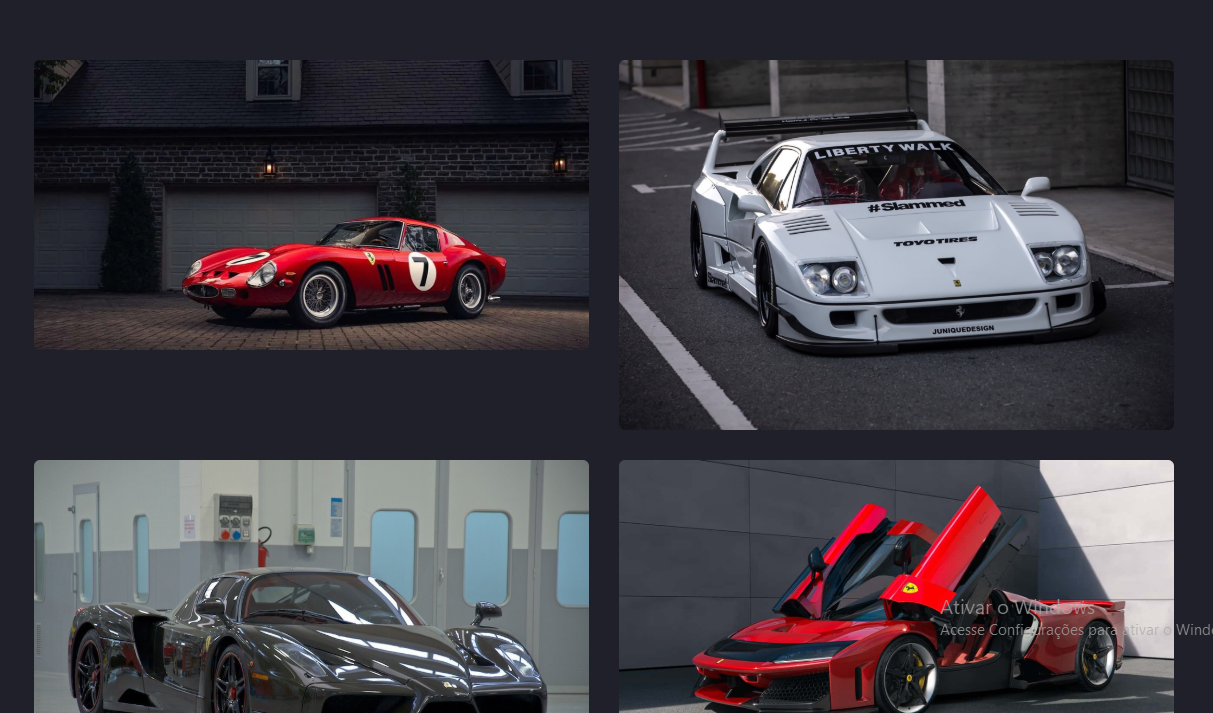
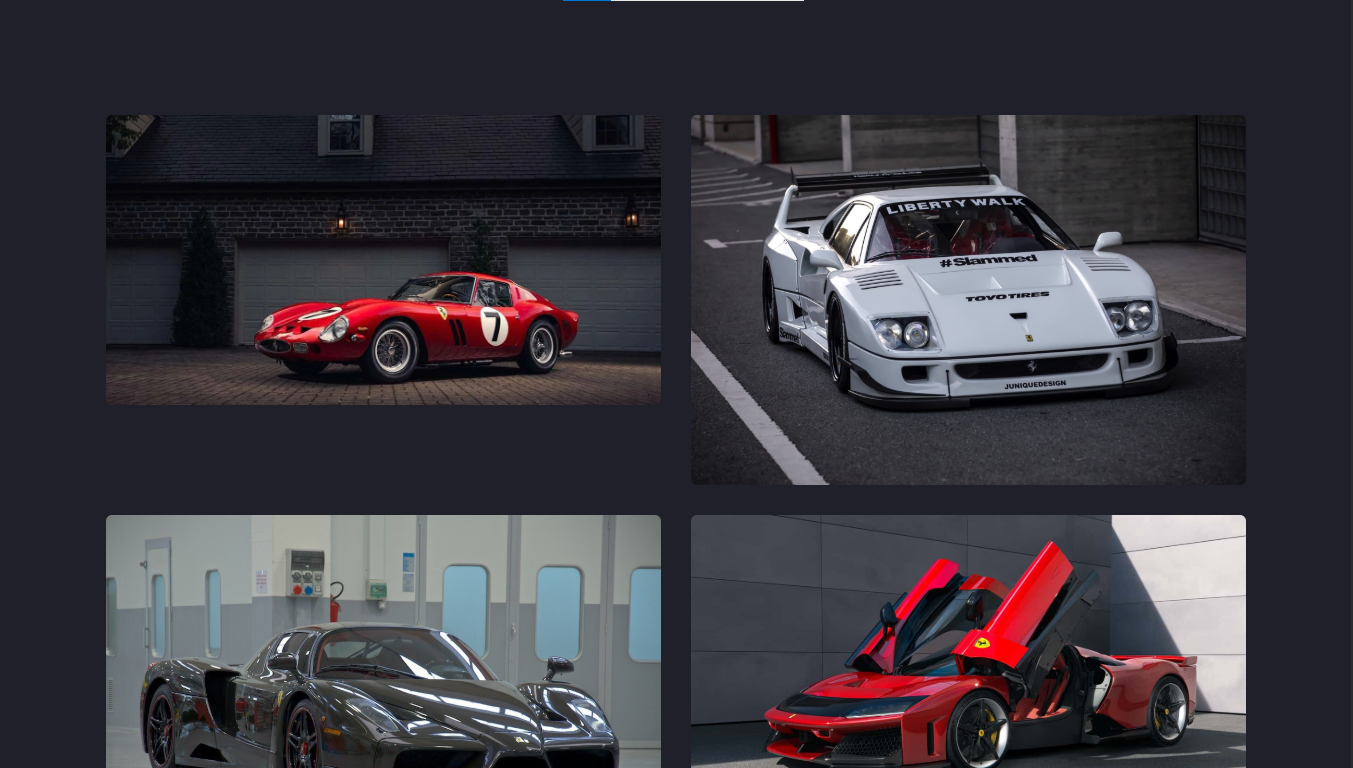
terminei de fazer a parte de projetos, arrumei a responsividade e dei uns últimos ajustes

diff --git a/index.html b/index.html
@@ -77,24 +77,74 @@
         </section>
 
         <section id="projetos">
+
             <div class="projeto" id="projeto1">
                 <div class="imagem">
                     <img src="templates/img/projeto1.png" alt="Projeto 1" id="img-projeto1">
                 </div>
                 <div class="infos-projeto">
-                    <h3>Projeto 1</h3>
-                    <p>Breve descrição do projeto, direta e objetiva.</p>
+                    <h3>Página de Login</h3>
+                    <p>Página de login simples, feita com CSS e HTML, com o intuito de botar em prática meu conhecimentos em front-end</p>
                 </div>
+                <div class="placas">
+                    <span class="placas html">HTML</span>
+                    <span class="placas css">CSS</span>
+                </div>
+                <a 
+                    href="https://github.com/Marcojaco/Paainel-de-Login.git" 
+                    target="_blank"
+                    class="botao-link-placa"
+                    aria-label="GitHub"
+                >
+                    <i class="fab fa-github"></i>   
+                </a>
             </div>
 
             <div class="projeto" id="projeto2">
-                <div class="imagem" id="projeto2">
+                <div class="imagem">
+                    <img src="templates/img/projeto2.png" alt="Projeto 2" id="img-projeto2">
+                </div>
+                <div class="infos-projeto">
+                    <h3>ferraris</h3>
+                    <p> Uma página que mostra algumas ferraris, quando vc passa o mouse por cima ou clica em cima das imagens ele mostra o nome</p>
+                </div>
+
+                <div class="placas">
+                    <span class="placas html">HTML</span>
+                    <span class="placas css">CSS</span>
+                </div>
+                <a 
+                    href="https://github.com/Marcojaco/Ferrari.git" 
+                    target="_blank"
+                    class="botao-link-placa"
+                    aria-label="GitHub"
+                >
+                    <i class="fab fa-github"></i>
+                </a>
+            </div>
+
+            <div class="projeto" id="projeto3">
+                <div class="imagem">
                     <img src="templates/img/projeto3.png" alt="Projeto 3" id="img-projeto3">
                 </div>
                 <div class="infos-projeto">
-                    <h3>sistema de login para Hotel</h3>
-                    <p>Um sistema full stack. Eu fiz com o intuito de aplicar meus aprendizados de back-end, também aprendendo como interligar front-end com o back-end</p>
+                    <h3>Hotel FullStack</h3>
+                    <p>Um sistema de login para hotel que pode ser usado de forma profissinal</p>
                 </div>
+                <div class="placas">
+                    <span class="placas html">HTML</span>
+                    <span class="placas css">CSS</span>
+                    <span class="placas python">PYTHON</span>
+                    <span class="placas mysql">MY SQL</span>
+                </div>
+                <a 
+                    href="https://github.com/Marcojaco/Hotel-Login-FullStack.git" 
+                    target="_blank"
+                    class="botao-link-placa"
+                    aria-label="GitHub"
+                >
+                    <i class="fab fa-github"></i>
+                </a>
             </div>
         </section>
 

diff --git a/templates/css/style.css b/templates/css/style.css
@@ -223,15 +223,15 @@ nav a.active::after {
 
 /* -------------------------------------------------------------*/
 
-.projetos {
+#projetos {
     display: grid;
-    grid-template-columns: repeat(2, 1fr);
+    grid-template-columns: repeat(3, 1fr);
     gap: 24px;
     padding: 40px;
 }
 
 .projeto {
-    background: #0b2e70; 
+    background: linear-gradient(45deg, #1000e2, #2703ac, #0c0391); 
     border-radius: 12px;
     padding: 16px;
     box-shadow: 0 8px 20px rgba(0,0,0,0.15);
@@ -243,68 +243,89 @@ nav a.active::after {
 }
 
 .imagem {
-    width: 100%;
+    background-color: none;
+
     display: flex;
     align-items: center;
     justify-content: center;
 
-    height: 400px;
-    width: 400px;
+    padding: 0px 10px 0px 10px ;
+    margin-left: auto;
+    margin-right: auto;
+
+    height: 250px;
 }
 
-#projeto1 {
-    display: flex;
-    
+#img-projeto1 {
+    border-radius: 20px;
+}
+
+#img-projeto2 {
+    border-radius: 20px;
 }
 
 #img-projeto3 {
-    height: 100%;
-    width: 100%;
-} 
-
-#projeto1 h3 {
-    margin-left: 5px;
-    font-size: 30px;
+    border-radius: 20px;
 }
 
-#projeto1 p {
+
+.infos-projeto h3 {
+    color: white;
+    font-size: 30px;
+    display: flex;
+    align-items: center;
+    justify-content: center;
+}
+
+.infos-projeto p {
+    color: white;
+    margin-top: 20px;
+    display: flex;
+    align-items: center;
+    justify-content: center;
+    text-align: center;
+    font-size: large;
+}
+
+.placas {
+    display: flex;
+    flex-wrap: wrap;
+    gap: 8px;
+    margin-top: 12px;
+}
+
+.placas {
+    font-size: 0.75rem;
+    padding: 4px 10px;
+    border-radius: 6px;
+    background: none;
+    color: #fff;
+    font-weight: 600;
+}
+
+.placas.html  { background: #e34c26; }
+.placas.css   { background: #264de4; }
+.placas.js    { background: #f0db4f; color: #000; }
+.placas.python { background: #057e33;}
+.placas.mysql { background: #00758f; }
+
+.botao-link-placa {
+    width: 40px;
+    height: 40px;
+
+    border-radius: 50%;
+
+    display: flex;
+    align-items: center;
+    justify-content: center;
+
+    margin-top: 15px;
     margin-left: 10px;
-    margin-right: 500px;
-    margin-top: 20px;
-}
 
-#projeto2 {
-    display: flex;
-    margin-top: 90px;
-    
-}
-
-#projeto2 h3 {
-    margin-left: 100px;
-    font-size: 30px;
-}
-
-#projeto2 p {
-    margin-left: 100px;
-    margin-right: 500px;
-    margin-top: 20px;
-
-    font-size: 20px;
-}
-
-.infos-projeto {
-    display: flex;
-    flex-direction: column;
-    width: 1000px;
-}
-
-.projeto h3 {
-    color: rgb(255, 255, 255);
-}
-
-.projeto p {
-    font-size: 14px;
-    color: #3512ce;
+    font-size: 1.6rem;
+    color: #fff;
+    text-decoration: none;
+    background-color: #333;
 }
 
 
@@ -440,11 +461,11 @@ nav a.active::after {
     }
 
     #nomeGrande {
-        font-size: 40px;
+        font-size: 20px;
     }
 
     #subtitulo {
-        font-size: 24px;
+        font-size: 17px;
     }
 
     #infos h3 {
@@ -469,6 +490,12 @@ nav a.active::after {
         width: 260px;
         height: 260px;
     }
+
+    #projetos {
+        display: flex;
+        gap: 24px;
+        padding: 40px;
+    }   
 
     .contato h2 {
         font-size: 28px;
